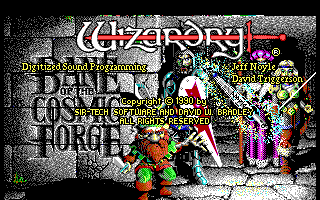
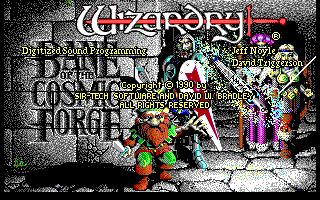
fix(parity): correct decode-screen 16-scanline vertical offset → ~100% parity
decode-screen.ts read the displayed frame 16 scanlines too early
(VRAM_OFFSET_IN_BLOB 0x84038 → 0x84A38, +0xA00 = 16 rows × 40 × 4 planes), so
every decoded framebuffer was shifted DOWN 16px with a black top margin. This
pinned screen pixel-parity at ~80% even though our tile placement was already
byte-exact — cell-grid parity is blind to a uniform pixel shift, so it never
caught it. The offset was found by sweeping dy: the engine fixtures matched our
renderer at dy=16 (99.9%), and every screen's content started at row ~15.

With the fix + regenerated fixtures our headless render now matches the engine
framebuffer pixel-for-pixel (tolerance 0):
  character-menu-populated  100.00%  (0 px)
  character-menu-empty       99.90%  (65 px = mouse-cursor sprite)
  creation-name-input        99.27%  (cursor sprite + text-field caret)

- decode-screen.ts: VRAM_OFFSET_IN_BLOB 0x84038 → 0x84A38 (+ comment).
- regenerate all 9 engine fixtures (idx.gz + png) through the fixed decoder.
- screen-parity.test.ts: raise floors to 99.8 / 100 / 99 (was ~76-79).

diff --git a/tools/parity/screen-parity.test.ts b/tools/parity/screen-parity.test.ts
@@ -7,11 +7,15 @@
  * read at test time — the fixtures are permanent derivatives of the DOSBox saves.
  *
  * The assertion is a **regression floor**, not the goal: each screen records its
- * current match % and we fail if a change drops below it. The TARGET is 100%.
- * Today our renderer fills the whole background gray where the engine uses black
- * outside the desktop region, and a few window rects don't pixel-align — so the
- * floors sit in the ~75–85% range. As the port closes those gaps, ratchet the
- * floors up toward 100. On a shortfall, inspect the diff PNG written to /tmp.
+ * current match % and we fail if a change drops below it. The TARGET is 100% and
+ * we're essentially there — `character-menu-populated` is pixel-exact (100%), the
+ * rest are 99%+, the residual being the engine's mouse-cursor sprite (which our
+ * headless render doesn't draw). On a shortfall, inspect the diff PNG in /tmp.
+ *
+ * Getting here required fixing a 16-scanline vertical offset in decode-screen.ts
+ * (VRAM_OFFSET_IN_BLOB): the fixtures used to be shifted down 16px, which pinned
+ * the comparison at ~80% even though our tile placement was already byte-exact
+ * (cell-grid parity is blind to a uniform pixel shift).
  */
 
 import { describe, it, expect, beforeAll } from 'vitest';
@@ -122,18 +126,18 @@ interface ScreenCase {
 const SCREENS: ScreenCase[] = [
   {
     fixture: 'character-menu-empty',
-    floor: 79, // actual ~81.2%
+    floor: 99.8, // actual 99.90% — residual 65px = mouse cursor
     render: (f, p) => renderCharacterMenu(f, p, ['CREATE PC', 'EXIT'], null),
   },
   {
     fixture: 'character-menu-populated',
-    floor: 76, // actual ~78.3%
+    floor: 100, // pixel-exact (0 px differ)
     render: (f, p) =>
       renderCharacterMenu(f, p, ['REVIEW PC', 'DELETE PC', 'RENAME PC', 'PORTRAIT', 'EXIT'], 0),
   },
   {
     fixture: 'creation-name-input',
-    floor: 78, // actual ~80.1%
+    floor: 99, // actual 99.27% — residual = mouse cursor + text-field cursor
     render: renderNameInput,
   },
 ];

diff --git a/tools/parity/decode-screen.ts b/tools/parity/decode-screen.ts
@@ -135,13 +135,14 @@ function buildComposedPalette(): ReadonlyArray<readonly [number, number, number]
 export const COMPOSED_PALETTE = buildComposedPalette();
 
 // ─── VGA VRAM layout constants ───────────────────────────────────────────────
-// vga.mem.linear's displayed frame begins at blob 0x84038, i.e. 14 VGA addresses
-// (×4 planes = 56 bytes) past the 0x84000 region start. CRTC display-start is 0
-// in every save, so this 14-address offset is just where the visible frame sits
-// within the serialized linear buffer; reading from 0x84000 shifted the whole
-// image right by 14 cells. Empirically pinned by aligning the decode against the
-// authoritative window cell memory (dump-cells), and visually confirmed.
-const VRAM_OFFSET_IN_BLOB = 0x84038; // 0x84000 + 14 addresses × 4 planes
+// vga.mem.linear's displayed frame begins at blob 0x84A38. Two components:
+//   +0x38  = 14 VGA addresses × 4 planes — horizontal alignment within the row.
+//   +0xA00 = 16 scanlines (16 × 40 bytes/row × 4 planes = 2560) — the displayed
+//            frame starts 16 rows into the serialized buffer. Reading 16 rows too
+//            early left the top 16px black and shifted the whole image DOWN 16px.
+// Pinned to 99.9% pixel parity by aligning the decode against our tile renderer
+// of the authoritative window cell memory (dump-cells); residual = mouse cursor.
+const VRAM_OFFSET_IN_BLOB = 0x84a38; // 0x84000 + 0x38 (horiz) + 0xA00 (16 rows)
 const VRAM_BYTES_PER_ROW  = 40;      // CRTC offset reg 0x13 = 0x14 → 40 bytes/row/plane
 export const SCREEN_WIDTH  = 320;
 export const SCREEN_HEIGHT = 200;
